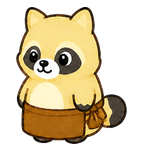
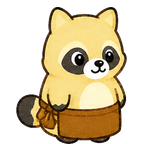
Correct Type D front direction

diff --git a/docs/art/image-archive.html b/docs/art/image-archive.html
@@ -2141,7 +2141,7 @@
         };
       }))),
 
-      ...[['A', 'P03'], ['B', 'P04'], ['C', 'P03'], ['D', 'P07']].map(([type, revision]) => {
+      ...[['A', 'P03'], ['B', 'P04'], ['C', 'P03'], ['D', 'P08']].map(([type, revision]) => {
         const runtimeOnly = type === 'D';
         return {
           c: 'clerks', shop: '대장간', archive: true,

diff --git a/docs/art/05_GENERATION_LOG.md b/docs/art/05_GENERATION_LOG.md
@@ -2138,7 +2138,7 @@
 
 - 날짜: 2026-08-26
 - 확정 원화: A `P03`, B `P04`, C `P03`
-- D 재설계 원화: `CLERK-SMITH-TYPE-D-GROWTH-DIAGONALS-V0.1-P07.png`
+- D 재설계 원화: `CLERK-SMITH-TYPE-D-GROWTH-DIAGONALS-V0.1-P08.png`
 - 런타임 미리보기: `generated/SMITH-CLERK-RUNTIME-24-PREVIEW-V0.3.png`
 - 도구: built-in image generation/edit + Sharp 기반 런타임 분리
 - 결과: `Revised / Draft`
@@ -2147,11 +2147,11 @@
 
 - A~C는 보행처럼 벌어진 발을 같은 크기·같은 접지선의 차렷자세로 교정했다.
 - D는 방향마다 뒤집히던 귀 무늬와 점박이를 폐기했다. 연황색 귀, 단순 얼굴 마스크, 뒤쪽의 큰 등판 한 면, 단색 꼬리 끝만 사용한다.
-- 실제 런타임에 필요한 `↘ side`와 `↗ back` 두 방향만 D 원화에 남겼다. 최초 생성된 뒤 방향이 `↖`으로 읽혀 두 번째 열을 정확히 반전하여 `↗`으로 수정했다.
+- 실제 런타임에 필요한 `↘ side`와 `↗ back` 두 방향만 D 원화에 남겼다. 최초 생성된 두 열이 각각 반대 방향으로 읽혀 앞·뒤 열을 정확히 반전해 A~C와 방향을 통일했다.
 - A~C의 네 방향 판은 검토 원화로 보존하지만 런타임 파생은 동일하게 `↘`·`↗`만 사용한다.
 
 ### 판정
 
 - 24/24장 모두 `144×144 RGBA`, 발끝 `y=143`, 가로 중심 오차 1px 이내를 통과했다.
-- D 뒤 방향은 얼굴 끝이 화면 오른쪽, 꼬리가 화면 왼쪽에 있어 `↗`으로 읽힌다.
+- D 앞·뒤 방향 모두 얼굴 끝이 화면 오른쪽, 꼬리가 화면 왼쪽에 있어 각각 `↘`·`↗`으로 읽힌다.
 - 현재 상태: `초안`. Godot 이동 화면에서 좌우 반전만 최종 확인한다.

diff --git a/docs/art/IMAGE_ARCHIVE.md b/docs/art/IMAGE_ARCHIVE.md
@@ -728,7 +728,7 @@
   </tr>
   <tr>
     <td align="center"><img src="./generated/CLERK-SMITH-TYPE-C-GROWTH-DIAGONALS-V0.1-P03.png" width="360" alt="대장간 점장 C타입 1~3단 대각선 차렷자세 수정본"></td>
-    <td align="center"><img src="./generated/CLERK-SMITH-TYPE-D-GROWTH-DIAGONALS-V0.1-P07.png" width="360" alt="대장간 점장 D타입 1~3단 실제 사용 방향 ↘ ↗ 재설계본"></td>
+    <td align="center"><img src="./generated/CLERK-SMITH-TYPE-D-GROWTH-DIAGONALS-V0.1-P08.png" width="360" alt="대장간 점장 D타입 1~3단 실제 사용 방향 ↘ ↗ 재설계본"></td>
   </tr>
   <tr>
     <td><strong>C타입 · 초안</strong><br>손에 든 물건 없이 앞치마 재료만 성장.</td>
